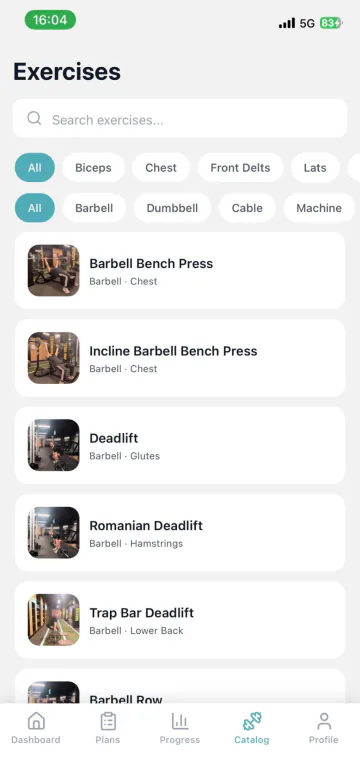
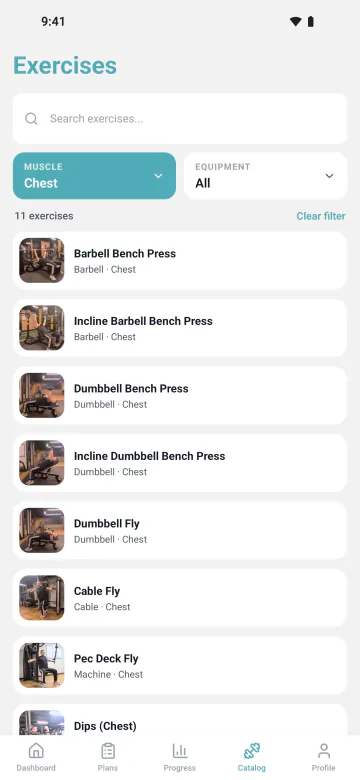
feat(landing): current app screenshots, real phone frames, two new cards
- Replace all six screenshots with captures of the live Android app
  (1.0.9) on a demo account in lbs. The guidance shot now uses the
  wide-grip lat pulldown, whose video reads cleanly at tile size.
- Size the phone frame in container units (cqw), with a near-black bezel
  and a camera dot. The fixed px radius that suited the hero phone turned
  the 180px tiles into pills and clipped the screenshots' corners.
- Add "See the whole program" (Overview) and "Change it any time"
  (Customize) cards. The grid now runs 1 + 1 + 2 on lg and has no gaps
  on sm.
- Show the hero lift in lbs to match the screenshots, and say "130+
  movements" (the app lists 138) instead of "hundreds".
- llms.txt: program overview and plan settings, and the 130+ count.

diff --git a/apps/landing_page/src/components/landing/data.ts b/apps/landing_page/src/components/landing/data.ts
@@ -10,6 +10,10 @@ import catalog360 from "@/assets/catalog-360.webp";
 import catalog720 from "@/assets/catalog-720.webp";
 import guidance360 from "@/assets/guidance-360.webp";
 import guidance720 from "@/assets/guidance-720.webp";
+import overview360 from "@/assets/overview-360.webp";
+import overview720 from "@/assets/overview-720.webp";
+import customize360 from "@/assets/customize-360.webp";
+import customize720 from "@/assets/customize-720.webp";
 import icon from "@/assets/fitnation-icon.png";
 
 /**
@@ -45,6 +49,8 @@ const workoutPreview = shot(workoutPreview360, workoutPreview720);
 const logging = shot(logging360, logging720);
 const catalog = shot(catalog360, catalog720);
 const guidance = shot(guidance360, guidance720);
+const overview = shot(overview360, overview720);
+const customize = shot(customize360, customize720);
 
 // Canonical origin, no trailing slash. Used for canonical/og:url and anywhere
 // else an absolute URL is required. Keep in sync with `sitemap.host` in
@@ -62,13 +68,13 @@ export const features = [
     title: "A program built around you",
     body: "Pick your goal, level and how many days you can train. Fit Nation builds the weekly plan and keeps it moving forward.",
     image: dashboard,
-    alt: "Fit Nation dashboard showing a personalized muscle gain program with Day 1 Push Day",
+    alt: "Fit Nation dashboard showing week 3 of a personalized plan with Pull Day up next",
   },
   {
     title: "Smart Workout in seconds",
     body: "No time to think? Choose push, pull, legs or full body, set a duration, and get a complete session instantly.",
     image: smartWorkout,
-    alt: "Smart Workout screen with quick select workout types and duration options",
+    alt: "Smart Workout screen with workout type, duration, equipment and training style options",
   },
   {
     title: "Review before you lift",
@@ -80,19 +86,31 @@ export const features = [
     title: "Log every set",
     body: "Weight, reps and rest tracked set by set, with suggested starting weights the first time you try an exercise.",
     image: logging,
-    alt: "Active workout screen logging weight and reps for set one of barbell bench press",
+    alt: "Active workout screen logging incline barbell bench press with a rest timer running between sets",
   },
   {
     title: "A full exercise catalog",
-    body: "Search hundreds of movements filtered by muscle group and equipment — barbell, dumbbell, cable or machine.",
+    body: "Search 130+ movements filtered by muscle group and equipment — barbell, dumbbell, cable or machine.",
     image: catalog,
-    alt: "Exercise catalog with search and filters for muscle group and equipment",
+    alt: "Exercise catalog filtered to chest exercises, with search and an equipment filter",
+  },
+  {
+    title: "See the whole program",
+    body: "Every week and session mapped out, with what's done and what's next. Start the next workout in one tap.",
+    image: overview,
+    alt: "Program overview showing week 3 of a 5-week plan, with two days done and Pull Day up next",
+  },
+  {
+    title: "Change it any time",
+    body: "New goal, fewer days or different equipment? Update your settings and the plan rebuilds around them.",
+    image: customize,
+    alt: "Customize Your Plan sheet with goal, experience, days per week, workout duration, equipment and training style",
   },
   {
     title: "Know what you are training",
     body: "Real demo footage, primary and secondary muscles, and step-by-step guidance for every exercise.",
     image: guidance,
-    alt: "Exercise guidance screen showing demo video and muscles worked diagram",
+    alt: "Exercise guidance for the wide-grip lat pulldown, with demo video and muscles worked diagram",
   },
 ];
 

diff --git a/apps/landing_page/src/components/landing/phone-frame.tsx b/apps/landing_page/src/components/landing/phone-frame.tsx
@@ -23,30 +23,35 @@ export function PhoneFrame({
   elevation?: "high" | "soft";
 }) {
   return (
-    <div
-      className={cn(
-        "relative mx-auto w-full max-w-[260px] rounded-[2.5rem] bg-navy p-[5px]",
-        elevation === "high" ? "shadow-phone" : "elev-2",
-        className,
-      )}
-    >
-      <div className="absolute left-1/2 top-[10px] z-10 h-[5px] w-14 -translate-x-1/2 rounded-full bg-navy-foreground/25" />
-      <img
-        src={shot.src}
-        srcSet={shot.srcSet}
-        sizes={sizes}
-        // width/height give the box an intrinsic aspect ratio, so a lazy tile
-        // reserves its full height before the bytes arrive instead of being
-        // zero-high and shoving the page around as it decodes. `h-auto` is what
-        // stops the height attribute being taken as a literal 1560px.
-        width={shot.width}
-        height={shot.height}
-        alt={alt}
-        loading={priority ? "eager" : "lazy"}
-        fetchPriority={priority ? "high" : "auto"}
-        decoding="async"
-        className="block h-auto w-full rounded-[2.15rem] bg-surface object-cover"
-      />
+    // Bezel, corners and camera are sized in cqw (this wrapper's width), so the
+    // 180px feature tiles keep the hero phone's proportions. In fixed px the
+    // same radius that suits the hero turned the small phones into pills and
+    // cut into the screenshots' corners.
+    <div className={cn("@container mx-auto w-full max-w-[260px]", className)}>
+      <div
+        className={cn(
+          "relative rounded-[12.5cqw] bg-phone p-[2.5cqw]",
+          elevation === "high" ? "shadow-phone" : "elev-2",
+        )}
+      >
+        <div className="absolute left-1/2 top-[6.2cqw] z-10 size-[3.4cqw] -translate-x-1/2 rounded-full bg-phone" />
+        <img
+          src={shot.src}
+          srcSet={shot.srcSet}
+          sizes={sizes}
+          // width/height give the box an intrinsic aspect ratio, so a lazy tile
+          // reserves its full height before the bytes arrive instead of being
+          // zero-high and shoving the page around as it decodes. `h-auto` is what
+          // stops the height attribute being taken as a literal 1560px.
+          width={shot.width}
+          height={shot.height}
+          alt={alt}
+          loading={priority ? "eager" : "lazy"}
+          fetchPriority={priority ? "high" : "auto"}
+          decoding="async"
+          className="block h-auto w-full rounded-[10cqw] bg-surface object-cover"
+        />
+      </div>
     </div>
   );
 }

diff --git a/apps/landing_page/src/components/landing/hero.tsx b/apps/landing_page/src/components/landing/hero.tsx
@@ -96,7 +96,7 @@ export function Hero() {
                 Bench press
               </p>
               <p className="font-display text-xl font-bold tracking-display text-navy">
-                30 kg <span className="text-base text-primary">× 8</span>
+                135 lbs <span className="text-base text-primary">× 8</span>
               </p>
             </div>
           </div>
@@ -113,7 +113,7 @@ export function Hero() {
               Bench press
             </p>
             <p className="font-display text-xl font-bold tracking-display text-navy">
-              30 kg <span className="text-base text-primary">× 8</span>
+              135 lbs <span className="text-base text-primary">× 8</span>
             </p>
           </div>
         </div>

diff --git a/apps/landing_page/src/styles.css b/apps/landing_page/src/styles.css
@@ -50,6 +50,7 @@
   --color-navy-foreground: var(--navy-foreground);
   --color-sky: var(--sky);
   --color-surface: var(--surface);
+  --color-phone: var(--phone);
   --color-store-badge: var(--store-badge);
   --color-store-badge-foreground: var(--store-badge-foreground);
   --font-display: "Poppins", ui-sans-serif, system-ui, sans-serif;
@@ -82,6 +83,8 @@
   --navy-foreground: oklch(0.985 0.004 240);
   --sky: oklch(0.83 0.077 227);
   --surface: oklch(0.975 0.005 236);
+  /* Bezel of the screenshot phone frames: near-black like real hardware. */
+  --phone: oklch(0.18 0.012 250);
   --store-badge: oklch(0 0 0);
   --store-badge-foreground: oklch(1 0 0);
   --gradient-brand: linear-gradient(100deg, oklch(0.7 0.117 205), oklch(0.7 0.183 42));

diff --git a/apps/landing_page/src/components/landing/features.tsx b/apps/landing_page/src/components/landing/features.tsx
@@ -9,9 +9,14 @@ const layout = [
   // smart workout — tall tile
   "lg:col-span-2 lg:row-span-2",
   "",
-  "",
+  // logging — full width at sm so the single tiles still pair up there
+  "sm:col-span-2 lg:col-span-1",
+  // catalog
   "sm:col-span-2 lg:col-span-2",
-  "sm:col-span-2 lg:col-span-4",
+  "",
+  "",
+  // guidance — same 1 + 1 + 2 rhythm as the row above on lg
+  "sm:col-span-2 lg:col-span-2",
 ];
 
 export function Features() {
